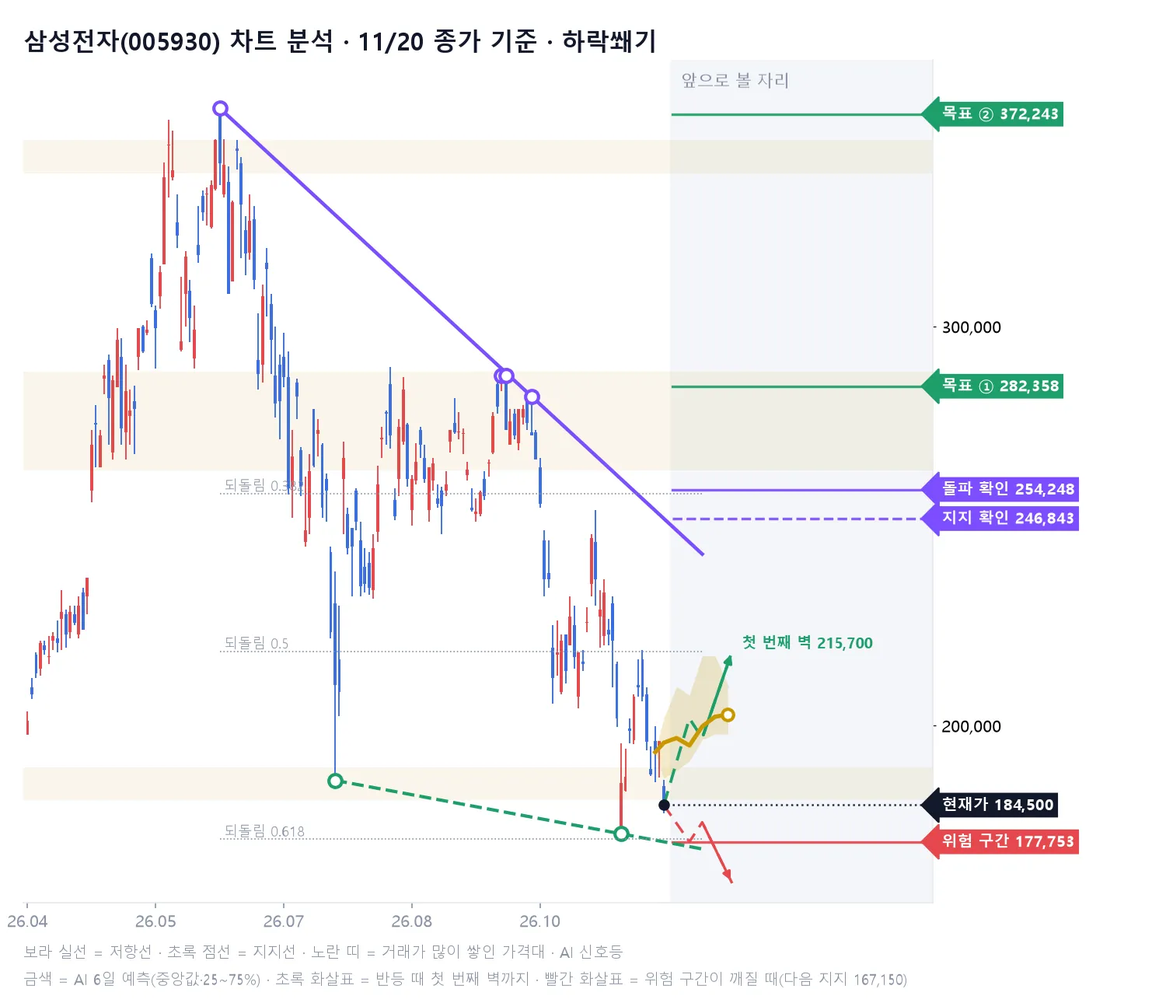
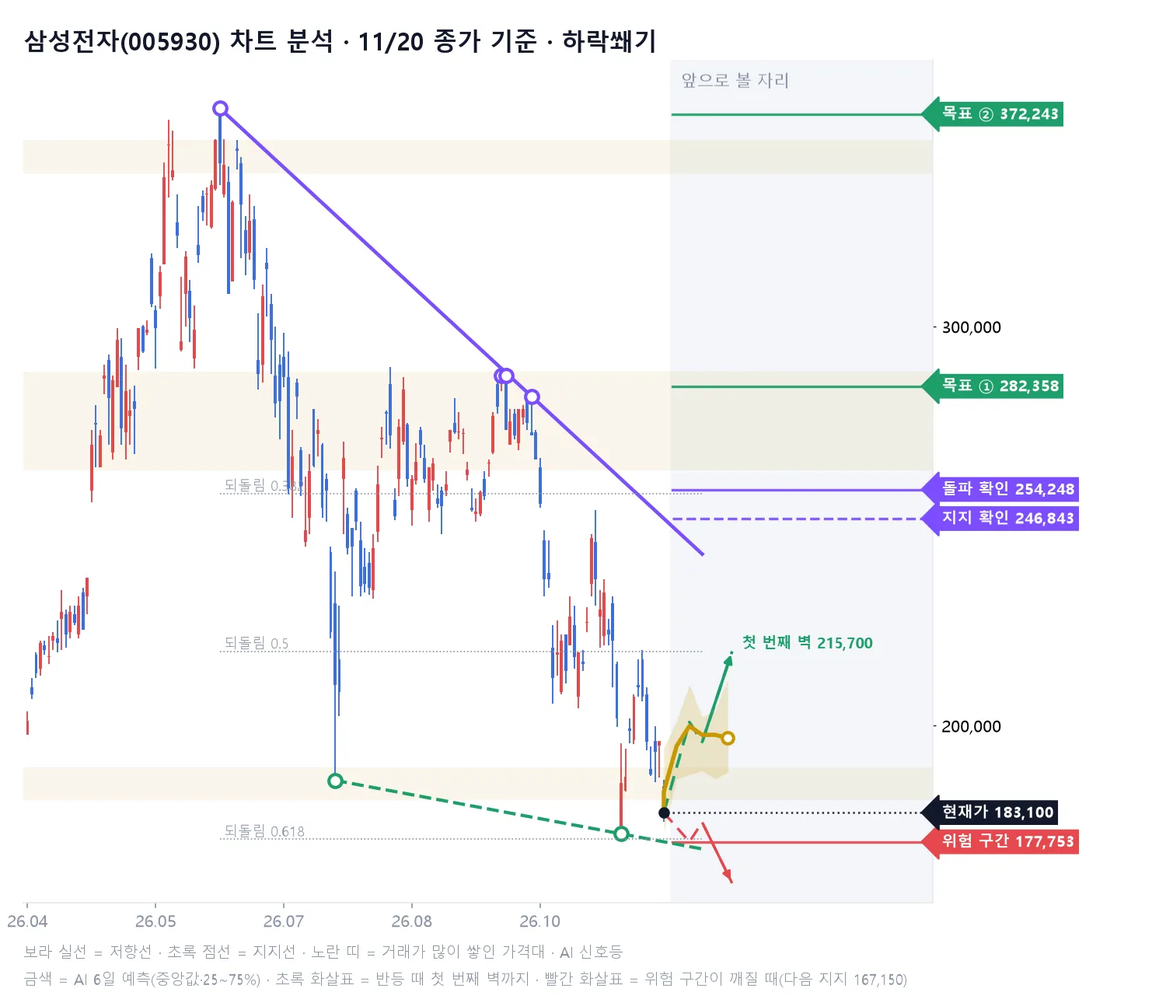
무료 공개 종목 페이지 자동 갱신

Changed region(s): [[0.552, 0.6512, 0.644, 0.8372], [0.7973, 0.7752, 0.92, 0.8372]]

diff --git a/s/index.html b/s/index.html
@@ -81,8 +81,8 @@
     <h1>오늘의 무료 공개 종목</h1>
     <p style="margin:0;color:#B7BFD0">유튜브 쇼츠에 나온 종목의 AI 판정과 6일 예측 흐름을 누구나 볼 수 있어요</p>
   </section>
-  <div class="pk-list"><a class="card pk-item" href="BTC/"><span><b>비트코인(BTC)</b><small>코인 · 업비트 · 11/20 예측</small></span><b class="v-mx">혼돈</b></a><a class="card pk-item" href="ETH/"><span><b>이더리움(ETH)</b><small>코인 · 업비트 · 11/19 예측</small></span><b class="v-mx">혼돈</b></a><a class="card pk-item" href="ETC/"><span><b>이더리움클래식(ETC)</b><small>코인 · 업비트 · 11/20 예측</small></span><b class="v-mx">혼돈</b></a><a class="card pk-item" href="APT/"><span><b>앱토스(APT)</b><small>코인 · 업비트 · 11/20 예측</small></span><b class="v-up">상승</b></a><a class="card pk-item" href="SUI/"><span><b>수이(SUI)</b><small>코인 · 업비트 · 11/20 예측</small></span><b class="v-mx">혼돈</b></a><a class="card pk-item" href="STRAX/"><span><b>저트라(STRAX)</b><small>코인 · 업비트 · 11/20 예측</small></span><b class="v-up">상승</b></a><a class="card pk-item" href="ENS/"><span><b>이더리움네임서비스(ENS)</b><small>코인 · 업비트 · 11/20 예측</small></span><b class="v-up">상승</b></a><a class="card pk-item" href="NVIDIA/"><span><b>엔비디아(NVDA)</b><small>미국 주식 · 11/19 예측</small></span><b class="v-up">상승</b></a><a class="card pk-item" href="TESLA/"><span><b>테슬라(TSLA)</b><small>미국 주식 · 11/19 예측</small></span><b class="v-mx">혼돈</b></a><a class="card pk-item" href="MERCADOLIBRE/"><span><b>메르카도리브레(MERCADOLIBRE)</b><small>미국 주식 · 11/19 예측</small></span><b class="v-up">상승</b></a><a class="card pk-item" href="STRATEGY/"><span><b>스트래티지(STRATEGY)</b><small>미국 주식 · 11/19 예측</small></span><b class="v-up">상승</b></a><a class="card pk-item" href="NETFLIX/"><span><b>넷플릭스(NETFLIX)</b><small>미국 주식 · 11/19 예측</small></span><b class="v-up">상승</b></a><a class="card pk-item" href="RUSSELL2000/"><span><b>러셀2000(RUSSELL2000)</b><small>미국 주식 · 11/19 예측</small></span><b class="v-up">상승</b></a><a class="card pk-item" href="SK%ED%95%98%EC%9D%B4%EB%8B%89%EC%8A%A4/"><span><b>SK하이닉스(000660)</b><small>코스피200 · 11/20 예측</small></span><b class="v-mx">혼돈</b></a><a class="card pk-item" href="%EC%82%BC%EC%84%B1%EC%A0%84%EC%9E%90/"><span><b>삼성전자(005930)</b><small>코스피200 · 11/19 예측</small></span><b class="v-mx">혼돈</b></a><a class="card pk-item" href="%ED%95%9C%ED%99%94%EC%86%94%EB%A3%A8%EC%85%98/"><span><b>한화솔루션</b><small>코스피200 · 11/21 예측</small></span><b class="v-mx">혼돈</b></a><a class="card pk-item" href="KODEX%EB%AF%B8%EA%B5%AD%EB%82%98%EC%8A%A4%EB%8B%A5100TR/"><span><b>KODEX미국나스닥100TR</b><small>코스피200 · 11/21 예측</small></span><b class="v-up">상승</b></a><a class="card pk-item" href="TIGER2%EC%B0%A8%EC%A0%84%EC%A7%80%ED%85%8C%EB%A7%88/"><span><b>TIGER2차전지테마</b><small>코스피200 · 11/21 예측</small></span><b class="v-up">상승</b></a><a class="card pk-item" href="TIGER%EB%AF%B8%EA%B5%AD%ED%85%8C%ED%81%ACTOP10/"><span><b>TIGER미국테크TOP10</b><small>코스피200 · 11/21 예측</small></span><b class="v-up">상승</b></a><a class="card pk-item" href="KODEX2%EC%B0%A8%EC%A0%84%EC%A7%80%EC%82%B0%EC%97%85/"><span><b>KODEX2차전지산업</b><small>코스피200 · 11/21 예측</small></span><b class="v-up">상승</b></a><a class="card pk-item" href="KOSDAQ/"><span><b>코스닥(KOSDAQ)</b><small>코스피 지수 · 11/21 예측</small></span><b class="v-up">상승</b></a><a class="card pk-item" href="KOSPI/"><span><b>코스피(KOSPI)</b><small>코스피 지수 · 11/21 예측</small></span><b class="v-up">상승</b></a></div>
-  <h2 style="font-size:17px;margin:12px 0 0">지난 공개 종목</h2><div class="pk-list"><a class="card pk-item" href="KODEXWTI%EC%9B%90%EC%9C%A0%EC%84%A0%EB%AC%BCH/"><span><b>KODEXWTI원유선물H</b><small>코스피200 · 11/20 예측</small></span><b class="v-up">상승</b></a><a class="card pk-item" href="%ED%95%9C%EC%A0%84%EA%B8%B0%EC%88%A0/"><span><b>한전기술</b><small>코스피200 · 11/20 예측</small></span><b class="v-up">상승</b></a><a class="card pk-item" href="KODEX%EA%B3%A8%EB%93%9C%EC%84%A0%EB%AC%BCH/"><span><b>KODEX골드선물H</b><small>코스피200 · 11/20 예측</small></span><b class="v-mx">혼돈</b></a><a class="card pk-item" href="SHIB/"><span><b>시바이누(SHIB)</b><small>코인 · 업비트 · 11/19 예측</small></span><b class="v-up">상승</b></a><a class="card pk-item" href="TOKAMAK/"><span><b>토카막네트워크(TOKAMAK)</b><small>코인 · 업비트 · 11/19 예측</small></span><b class="v-up">상승</b></a><a class="card pk-item" href="TIGER%EB%AF%B8%EA%B5%ADSP500/"><span><b>TIGER미국SP500</b><small>코스피200 · 11/19 예측</small></span><b class="v-mx">혼돈</b></a><a class="card pk-item" href="%EA%B8%B0%EC%95%84/"><span><b>기아</b><small>코스피200 · 11/19 예측</small></span><b class="v-mx">혼돈</b></a><a class="card pk-item" href="%ED%98%84%EB%8C%80%EB%A1%9C%ED%85%9C/"><span><b>현대로템</b><small>코스피200 · 11/19 예측</small></span><b class="v-up">상승</b></a><a class="card pk-item" href="TIGER%EB%B0%98%EB%8F%84%EC%B2%B4TOP10/"><span><b>TIGER반도체TOP10</b><small>코스피200 · 11/19 예측</small></span><b class="v-up">상승</b></a><a class="card pk-item" href="MBL/"><span><b>무비블록(MBL)</b><small>코인 · 업비트 · 11/18 예측</small></span><b class="v-up">상승</b></a><a class="card pk-item" href="SC/"><span><b>시아코인(SC)</b><small>코인 · 업비트 · 11/18 예측</small></span><b class="v-up">상승</b></a><a class="card pk-item" href="ELF/"><span><b>엘프(ELF)</b><small>코인 · 업비트 · 11/18 예측</small></span><b class="v-up">상승</b></a><a class="card pk-item" href="BITMINE/"><span><b>비트마인(BITMINE)</b><small>미국 주식 · 11/18 예측</small></span><b class="v-up">상승</b></a><a class="card pk-item" href="NASDAQ100/"><span><b>나스닥100(NASDAQ100)</b><small>미국 주식 · 11/18 예측</small></span><b class="v-up">상승</b></a><a class="card pk-item" href="NASDAQ/"><span><b>나스닥(NASDAQ)</b><small>미국 주식 · 11/18 예측</small></span><b class="v-up">상승</b></a><a class="card pk-item" href="DB%ED%95%98%EC%9D%B4%ED%85%8D/"><span><b>DB하이텍</b><small>코스피200 · 11/18 예측</small></span><b class="v-up">상승</b></a><a class="card pk-item" href="%ED%95%9C%ED%99%94%EC%83%9D%EB%AA%85/"><span><b>한화생명</b><small>코스피200 · 11/18 예측</small></span><b class="v-mx">혼돈</b></a><a class="card pk-item" href="SOL/"><span><b>솔라나(SOL)</b><small>코인 · 업비트 · 11/17 예측</small></span><b class="v-up">상승</b></a><a class="card pk-item" href="HBAR/"><span><b>헤데라(HBAR)</b><small>코인 · 업비트 · 11/17 예측</small></span><b class="v-up">상승</b></a><a class="card pk-item" href="NEAR/"><span><b>니어프로토콜(NEAR)</b><small>코인 · 업비트 · 11/17 예측</small></span><b class="v-up">상승</b></a><a class="card pk-item" href="CISCO/"><span><b>시스코(CISCO)</b><small>미국 주식 · 11/17 예측</small></span><b class="v-up">상승</b></a><a class="card pk-item" href="DB%EC%86%90%ED%95%B4%EB%B3%B4%ED%97%98/"><span><b>DB손해보험</b><small>코스피200 · 11/17 예측</small></span><b class="v-up">상승</b></a><a class="card pk-item" href="NIKKEI225/"><span><b>NIKKEI225</b><small>코스피200 · 11/17 예측</small></span><b class="v-up">상승</b></a><a class="card pk-item" href="LG/"><span><b>LG</b><small>코스피200 · 11/17 예측</small></span><b class="v-up">상승</b></a><a class="card pk-item" href="NEO/"><span><b>네오(NEO)</b><small>코인 · 업비트 · 11/16 예측</small></span><b class="v-up">상승</b></a><a class="card pk-item" href="MED/"><span><b>메디블록(MED)</b><small>코인 · 업비트 · 11/16 예측</small></span><b class="v-up">상승</b></a><a class="card pk-item" href="VET/"><span><b>비체인(VET)</b><small>코인 · 업비트 · 11/16 예측</small></span><b class="v-up">상승</b></a><a class="card pk-item" href="TFUEL/"><span><b>쎄타퓨엘(TFUEL)</b><small>코인 · 업비트 · 11/16 예측</small></span><b class="v-up">상승</b></a><a class="card pk-item" href="SP500/"><span><b>S&amp;P500(SPX)</b><small>미국 주식 · 11/14 예측</small></span><b class="v-dn">하락</b></a><a class="card pk-item" href="BITCOIN_ETF_FIDELITY/"><span><b>비트코인 현물 피델리티(BITCOIN_ETF_FIDELITY)</b><small>미국 주식 · 11/14 예측</small></span><b class="v-up">상승</b></a><a class="card pk-item" href="BITCOIN_ETF_ISHARES/"><span><b>비트코인 현물 아이셰어즈(BITCOIN_ETF_ISHARES)</b><small>미국 주식 · 11/14 예측</small></span><b class="v-up">상승</b></a></div>
+  <div class="pk-list"><a class="card pk-item" href="BTC/"><span><b>비트코인(BTC)</b><small>코인 · 업비트 · 11/20 예측</small></span><b class="v-mx">혼돈</b></a><a class="card pk-item" href="ETC/"><span><b>이더리움클래식(ETC)</b><small>코인 · 업비트 · 11/20 예측</small></span><b class="v-mx">혼돈</b></a><a class="card pk-item" href="APT/"><span><b>앱토스(APT)</b><small>코인 · 업비트 · 11/20 예측</small></span><b class="v-up">상승</b></a><a class="card pk-item" href="SUI/"><span><b>수이(SUI)</b><small>코인 · 업비트 · 11/20 예측</small></span><b class="v-mx">혼돈</b></a><a class="card pk-item" href="STRAX/"><span><b>저트라(STRAX)</b><small>코인 · 업비트 · 11/20 예측</small></span><b class="v-up">상승</b></a><a class="card pk-item" href="ENS/"><span><b>이더리움네임서비스(ENS)</b><small>코인 · 업비트 · 11/20 예측</small></span><b class="v-up">상승</b></a><a class="card pk-item" href="MERCADOLIBRE/"><span><b>메르카도리브레(MERCADOLIBRE)</b><small>미국 주식 · 11/19 예측</small></span><b class="v-up">상승</b></a><a class="card pk-item" href="STRATEGY/"><span><b>스트래티지(STRATEGY)</b><small>미국 주식 · 11/19 예측</small></span><b class="v-up">상승</b></a><a class="card pk-item" href="NETFLIX/"><span><b>넷플릭스(NETFLIX)</b><small>미국 주식 · 11/19 예측</small></span><b class="v-up">상승</b></a><a class="card pk-item" href="RUSSELL2000/"><span><b>러셀2000(RUSSELL2000)</b><small>미국 주식 · 11/19 예측</small></span><b class="v-up">상승</b></a><a class="card pk-item" href="SK%ED%95%98%EC%9D%B4%EB%8B%89%EC%8A%A4/"><span><b>SK하이닉스(000660)</b><small>코스피200 · 11/20 예측</small></span><b class="v-mx">혼돈</b></a><a class="card pk-item" href="%EC%82%BC%EC%84%B1%EC%A0%84%EC%9E%90/"><span><b>삼성전자(005930)</b><small>코스피200 · 11/21 예측</small></span><b class="v-mx">혼돈</b></a><a class="card pk-item" href="%ED%95%9C%ED%99%94%EC%86%94%EB%A3%A8%EC%85%98/"><span><b>한화솔루션</b><small>코스피200 · 11/21 예측</small></span><b class="v-mx">혼돈</b></a><a class="card pk-item" href="KODEX%EB%AF%B8%EA%B5%AD%EB%82%98%EC%8A%A4%EB%8B%A5100TR/"><span><b>KODEX미국나스닥100TR</b><small>코스피200 · 11/21 예측</small></span><b class="v-up">상승</b></a><a class="card pk-item" href="TIGER2%EC%B0%A8%EC%A0%84%EC%A7%80%ED%85%8C%EB%A7%88/"><span><b>TIGER2차전지테마</b><small>코스피200 · 11/21 예측</small></span><b class="v-up">상승</b></a><a class="card pk-item" href="TIGER%EB%AF%B8%EA%B5%AD%ED%85%8C%ED%81%ACTOP10/"><span><b>TIGER미국테크TOP10</b><small>코스피200 · 11/21 예측</small></span><b class="v-up">상승</b></a><a class="card pk-item" href="KODEX2%EC%B0%A8%EC%A0%84%EC%A7%80%EC%82%B0%EC%97%85/"><span><b>KODEX2차전지산업</b><small>코스피200 · 11/21 예측</small></span><b class="v-up">상승</b></a><a class="card pk-item" href="KOSDAQ/"><span><b>코스닥(KOSDAQ)</b><small>코스피 지수 · 11/21 예측</small></span><b class="v-up">상승</b></a><a class="card pk-item" href="KOSPI/"><span><b>코스피(KOSPI)</b><small>코스피 지수 · 11/21 예측</small></span><b class="v-up">상승</b></a></div>
+  <h2 style="font-size:17px;margin:12px 0 0">지난 공개 종목</h2><div class="pk-list"><a class="card pk-item" href="KODEXWTI%EC%9B%90%EC%9C%A0%EC%84%A0%EB%AC%BCH/"><span><b>KODEXWTI원유선물H</b><small>코스피200 · 11/20 예측</small></span><b class="v-up">상승</b></a><a class="card pk-item" href="%ED%95%9C%EC%A0%84%EA%B8%B0%EC%88%A0/"><span><b>한전기술</b><small>코스피200 · 11/20 예측</small></span><b class="v-up">상승</b></a><a class="card pk-item" href="KODEX%EA%B3%A8%EB%93%9C%EC%84%A0%EB%AC%BCH/"><span><b>KODEX골드선물H</b><small>코스피200 · 11/20 예측</small></span><b class="v-mx">혼돈</b></a><a class="card pk-item" href="NVIDIA/"><span><b>엔비디아(NVDA)</b><small>미국 주식 · 11/19 예측</small></span><b class="v-up">상승</b></a><a class="card pk-item" href="ETH/"><span><b>이더리움(ETH)</b><small>코인 · 업비트 · 11/19 예측</small></span><b class="v-mx">혼돈</b></a><a class="card pk-item" href="TESLA/"><span><b>테슬라(TSLA)</b><small>미국 주식 · 11/19 예측</small></span><b class="v-mx">혼돈</b></a><a class="card pk-item" href="SHIB/"><span><b>시바이누(SHIB)</b><small>코인 · 업비트 · 11/19 예측</small></span><b class="v-up">상승</b></a><a class="card pk-item" href="TOKAMAK/"><span><b>토카막네트워크(TOKAMAK)</b><small>코인 · 업비트 · 11/19 예측</small></span><b class="v-up">상승</b></a><a class="card pk-item" href="TIGER%EB%AF%B8%EA%B5%ADSP500/"><span><b>TIGER미국SP500</b><small>코스피200 · 11/19 예측</small></span><b class="v-mx">혼돈</b></a><a class="card pk-item" href="%EA%B8%B0%EC%95%84/"><span><b>기아</b><small>코스피200 · 11/19 예측</small></span><b class="v-mx">혼돈</b></a><a class="card pk-item" href="%ED%98%84%EB%8C%80%EB%A1%9C%ED%85%9C/"><span><b>현대로템</b><small>코스피200 · 11/19 예측</small></span><b class="v-up">상승</b></a><a class="card pk-item" href="TIGER%EB%B0%98%EB%8F%84%EC%B2%B4TOP10/"><span><b>TIGER반도체TOP10</b><small>코스피200 · 11/19 예측</small></span><b class="v-up">상승</b></a><a class="card pk-item" href="MBL/"><span><b>무비블록(MBL)</b><small>코인 · 업비트 · 11/18 예측</small></span><b class="v-up">상승</b></a><a class="card pk-item" href="SC/"><span><b>시아코인(SC)</b><small>코인 · 업비트 · 11/18 예측</small></span><b class="v-up">상승</b></a><a class="card pk-item" href="ELF/"><span><b>엘프(ELF)</b><small>코인 · 업비트 · 11/18 예측</small></span><b class="v-up">상승</b></a><a class="card pk-item" href="BITMINE/"><span><b>비트마인(BITMINE)</b><small>미국 주식 · 11/18 예측</small></span><b class="v-up">상승</b></a><a class="card pk-item" href="NASDAQ100/"><span><b>나스닥100(NASDAQ100)</b><small>미국 주식 · 11/18 예측</small></span><b class="v-up">상승</b></a><a class="card pk-item" href="NASDAQ/"><span><b>나스닥(NASDAQ)</b><small>미국 주식 · 11/18 예측</small></span><b class="v-up">상승</b></a><a class="card pk-item" href="DB%ED%95%98%EC%9D%B4%ED%85%8D/"><span><b>DB하이텍</b><small>코스피200 · 11/18 예측</small></span><b class="v-up">상승</b></a><a class="card pk-item" href="%ED%95%9C%ED%99%94%EC%83%9D%EB%AA%85/"><span><b>한화생명</b><small>코스피200 · 11/18 예측</small></span><b class="v-mx">혼돈</b></a><a class="card pk-item" href="SOL/"><span><b>솔라나(SOL)</b><small>코인 · 업비트 · 11/17 예측</small></span><b class="v-up">상승</b></a><a class="card pk-item" href="HBAR/"><span><b>헤데라(HBAR)</b><small>코인 · 업비트 · 11/17 예측</small></span><b class="v-up">상승</b></a><a class="card pk-item" href="NEAR/"><span><b>니어프로토콜(NEAR)</b><small>코인 · 업비트 · 11/17 예측</small></span><b class="v-up">상승</b></a><a class="card pk-item" href="CISCO/"><span><b>시스코(CISCO)</b><small>미국 주식 · 11/17 예측</small></span><b class="v-up">상승</b></a><a class="card pk-item" href="DB%EC%86%90%ED%95%B4%EB%B3%B4%ED%97%98/"><span><b>DB손해보험</b><small>코스피200 · 11/17 예측</small></span><b class="v-up">상승</b></a><a class="card pk-item" href="NIKKEI225/"><span><b>NIKKEI225</b><small>코스피200 · 11/17 예측</small></span><b class="v-up">상승</b></a><a class="card pk-item" href="LG/"><span><b>LG</b><small>코스피200 · 11/17 예측</small></span><b class="v-up">상승</b></a><a class="card pk-item" href="NEO/"><span><b>네오(NEO)</b><small>코인 · 업비트 · 11/16 예측</small></span><b class="v-up">상승</b></a><a class="card pk-item" href="MED/"><span><b>메디블록(MED)</b><small>코인 · 업비트 · 11/16 예측</small></span><b class="v-up">상승</b></a><a class="card pk-item" href="VET/"><span><b>비체인(VET)</b><small>코인 · 업비트 · 11/16 예측</small></span><b class="v-up">상승</b></a><a class="card pk-item" href="TFUEL/"><span><b>쎄타퓨엘(TFUEL)</b><small>코인 · 업비트 · 11/16 예측</small></span><b class="v-up">상승</b></a><a class="card pk-item" href="SP500/"><span><b>S&amp;P500(SPX)</b><small>미국 주식 · 11/14 예측</small></span><b class="v-dn">하락</b></a><a class="card pk-item" href="BITCOIN_ETF_FIDELITY/"><span><b>비트코인 현물 피델리티(BITCOIN_ETF_FIDELITY)</b><small>미국 주식 · 11/14 예측</small></span><b class="v-up">상승</b></a><a class="card pk-item" href="BITCOIN_ETF_ISHARES/"><span><b>비트코인 현물 아이셰어즈(BITCOIN_ETF_ISHARES)</b><small>미국 주식 · 11/14 예측</small></span><b class="v-up">상승</b></a></div>
   <section class="card pk-cta">
     <b style="font-size:17px">전체 종목 순위와 모델별 차트는 회원 화면에서</b>
     <a class="btn big red" href="../login.html?next=index.html#signup" data-member="../index.html" data-member-text="내 포털로 가기">7일 무료로 시작하기</a>

diff --git a/s/삼성전자/index.html b/s/삼성전자/index.html
@@ -3,13 +3,13 @@
 <head>
 <meta charset="utf-8">
 <meta name="viewport" content="width=device-width, initial-scale=1">
-<title>삼성전자(005930) 전망 11/19 · AI 52개 모델 6일 예측 | AI 신호등</title>
-<meta name="description" content="11/19 기준 삼성전자(005930) 다음 거래일 AI 판정은 &#x27;혼돈&#x27;. 52개 모델 중 상승 27 · 하락 16. 6일 뒤 예측 중앙값 +3.9%. 52개 예측 모델의 6일 가격 흐름을 신호등으로 정리했어요.">
+<title>삼성전자(005930) 전망 11/21 · AI 52개 모델 6일 예측 | AI 신호등</title>
+<meta name="description" content="11/21 기준 삼성전자(005930) 다음 거래일 AI 판정은 &#x27;혼돈&#x27;. 52개 모델 중 상승 31 · 하락 19. 6일 뒤 예측 중앙값 +7.9%. 52개 예측 모델의 6일 가격 흐름을 신호등으로 정리했어요.">
 <link rel="canonical" href="https://www.ai-sinhodeung.co.kr/s/%EC%82%BC%EC%84%B1%EC%A0%84%EC%9E%90/">
 <meta property="og:type" content="article">
 <meta property="og:site_name" content="AI 신호등">
-<meta property="og:title" content="삼성전자(005930) 전망 11/19 · AI 52개 모델 6일 예측 | AI 신호등">
-<meta property="og:description" content="11/19 기준 삼성전자(005930) 다음 거래일 AI 판정은 &#x27;혼돈&#x27;. 52개 모델 중 상승 27 · 하락 16. 6일 뒤 예측 중앙값 +3.9%. 52개 예측 모델의 6일 가격 흐름을 신호등으로 정리했어요.">
+<meta property="og:title" content="삼성전자(005930) 전망 11/21 · AI 52개 모델 6일 예측 | AI 신호등">
+<meta property="og:description" content="11/21 기준 삼성전자(005930) 다음 거래일 AI 판정은 &#x27;혼돈&#x27;. 52개 모델 중 상승 31 · 하락 19. 6일 뒤 예측 중앙값 +7.9%. 52개 예측 모델의 6일 가격 흐름을 신호등으로 정리했어요.">
 <meta property="og:url" content="https://www.ai-sinhodeung.co.kr/s/%EC%82%BC%EC%84%B1%EC%A0%84%EC%9E%90/">
 <meta property="og:image" content="https://www.ai-sinhodeung.co.kr/assets/og-image.png">
 <meta property="og:locale" content="ko_KR">
@@ -64,7 +64,7 @@
 .ca ul.ca-ck { list-style: none; padding: 0; display: grid; grid-template-columns: repeat(auto-fill, minmax(200px, 1fr)); gap: 2px 10px; font-size: 13.5px; }
 .ca ul.ca-warn { list-style: none; padding: 0; color: #B4232A; font-size: 13.5px; }
 </style>
-<script type="application/ld+json">{"@context": "https://schema.org", "@type": "Article", "headline": "삼성전자(005930) 전망 11/19 · AI 52개 모델 6일 예측 | AI 신호등", "description": "11/19 기준 삼성전자(005930) 다음 거래일 AI 판정은 '혼돈'. 52개 모델 중 상승 27 · 하락 16. 6일 뒤 예측 중앙값 +3.9%. 52개 예측 모델의 6일 가격 흐름을 신호등으로 정리했어요.", "dateModified": "2026-11-19", "inLanguage": "ko", "url": "https://www.ai-sinhodeung.co.kr/s/%EC%82%BC%EC%84%B1%EC%A0%84%EC%9E%90/", "publisher": {"@type": "Organization", "name": "AI 신호등", "url": "https://www.ai-sinhodeung.co.kr"}}</script>
+<script type="application/ld+json">{"@context": "https://schema.org", "@type": "Article", "headline": "삼성전자(005930) 전망 11/21 · AI 52개 모델 6일 예측 | AI 신호등", "description": "11/21 기준 삼성전자(005930) 다음 거래일 AI 판정은 '혼돈'. 52개 모델 중 상승 31 · 하락 19. 6일 뒤 예측 중앙값 +7.9%. 52개 예측 모델의 6일 가격 흐름을 신호등으로 정리했어요.", "dateModified": "2026-11-21", "inLanguage": "ko", "url": "https://www.ai-sinhodeung.co.kr/s/%EC%82%BC%EC%84%B1%EC%A0%84%EC%9E%90/", "publisher": {"@type": "Organization", "name": "AI 신호등", "url": "https://www.ai-sinhodeung.co.kr"}}</script>
 </head>
 <body class="home landing">
 <header class="topbar">
@@ -77,7 +77,7 @@
 
 <main class="pk">
   <section class="pk-hero on-night">
-    <small>코스피200 · 11/19 예측 · AI 모델 52개</small>
+    <small>코스피200 · 11/21 예측 · AI 모델 52개</small>
     <h1>삼성전자(005930) 전망</h1>
   </section>
 
@@ -85,25 +85,25 @@
     <div class="pk-verdict">
       <div class="lamp mx" aria-hidden="true"><i></i><i></i><i></i></div>
       <div><small style="color:var(--muted);font-size:12.5px">다음 거래일(D+1) AI 판정</small><br>
-        <b class="v-mx">혼돈</b><br><span>52개 모델 중 상승 27 · 하락 16</span></div>
+        <b class="v-mx">혼돈</b><br><span>52개 모델 중 상승 31 · 하락 19</span></div>
     </div>
-    <p style="margin:10px 0 0;color:var(--sub);font-size:14px">참고: 박스권 횡보</p>
+    <p style="margin:10px 0 0;color:var(--sub);font-size:14px">참고: D+3 고점 후 되돌림</p>
   </section>
 
   <section class="card">
     <h3 style="margin-bottom:6px">6일 예측 흐름</h3>
-    <p class="hint" style="margin:0 0 10px;font-size:13px">기준가 194,700원 · 6일 뒤 예측 중앙값 <b class="v-mx">+3.9%</b></p>
+    <p class="hint" style="margin:0 0 10px;font-size:13px">기준가 183,100원 · 6일 뒤 예측 중앙값 <b class="v-mx">+7.9%</b></p>
     <svg viewBox="0 0 520 300" role="img" aria-label="최근 8일 종가와 앞으로 6일 예측 범위" class="pk-chart">
   <line x1="277.1" y1="30" x2="277.1" y2="266" stroke="#C5CAD6" stroke-dasharray="4 4"/>
-  <polygon points="277.1,208.2 315.2,152.8 353.4,100.1 391.5,114.7 429.7,46.3 467.8,46.5 506.0,96.4 506.0,179.0 467.8,179.0 429.7,187.8 391.5,222.4 353.4,236.5 315.2,249.7 277.1,208.2" fill="#C99700" fill-opacity=".14"/>
-  <polyline points="10.0,247.0 48.2,174.3 86.3,117.0 124.5,100.8 162.6,117.0 200.8,191.3 238.9,243.8 277.1,208.2" fill="none" stroke="#12182B" stroke-width="2.4" stroke-linejoin="round"/>
-  <polyline points="277.1,208.2 315.2,193.0 353.4,185.5 391.5,197.5 429.7,166.6 467.8,150.6 506.0,147.0" fill="none" stroke="#C99700" stroke-width="3" stroke-linejoin="round"/>
-  <circle cx="277.1" cy="208.2" r="4.5" fill="#12182B"/>
-  <circle cx="506.0" cy="147.0" r="6" fill="#fff" stroke="#C99700" stroke-width="3"/>
-  <text x="506" y="20" text-anchor="end" font-size="18" font-weight="700" fill="#C99700">6일 뒤 +3.9%</text>
-  <text x="10" y="290" font-size="15" fill="#8A93A6">11-09</text>
-  <text x="277.1" y="290" font-size="15" fill="#12182B" text-anchor="middle" font-weight="600">11-18 기준</text>
-  <text x="506" y="290" font-size="15" fill="#8A93A6" text-anchor="end">11-24</text>
+  <polygon points="277.1,226.4 315.2,142.8 353.4,105.1 391.5,54.7 429.7,99.9 467.8,90.6 506.0,46.3 506.0,174.6 467.8,183.4 429.7,172.4 391.5,177.8 353.4,183.4 315.2,249.7 277.1,226.4" fill="#C99700" fill-opacity=".14"/>
+  <polyline points="10.0,71.6 48.2,58.0 86.3,71.6 124.5,133.8 162.6,177.7 200.8,148.0 238.9,133.1 277.1,226.4" fill="none" stroke="#12182B" stroke-width="2.4" stroke-linejoin="round"/>
+  <polyline points="277.1,226.4 315.2,199.8 353.4,139.8 391.5,112.6 429.7,124.8 467.8,124.5 506.0,129.1" fill="none" stroke="#C99700" stroke-width="3" stroke-linejoin="round"/>
+  <circle cx="277.1" cy="226.4" r="4.5" fill="#12182B"/>
+  <circle cx="506.0" cy="129.1" r="6" fill="#fff" stroke="#C99700" stroke-width="3"/>
+  <text x="506" y="20" text-anchor="end" font-size="18" font-weight="700" fill="#C99700">6일 뒤 +7.9%</text>
+  <text x="10" y="290" font-size="15" fill="#8A93A6">11-11</text>
+  <text x="277.1" y="290" font-size="15" fill="#12182B" text-anchor="middle" font-weight="600">11-20 기준</text>
+  <text x="506" y="290" font-size="15" fill="#8A93A6" text-anchor="end">11-26</text>
 </svg>
     <div class="pk-legend"><span><i style="background:#12182B"></i>실제 종가</span><span><i style="background:#C99700"></i>모델 예측 중앙값</span><span><i style="background:#C99700;height:8px;opacity:.2"></i>모델 25~75% 범위</span></div>
   </section>
@@ -117,7 +117,7 @@
   </section>
 
   <section class="card ca" id="ca">
-    <h3 style="margin:0">삼성전자(005930) 차트 분석 <small style="color:var(--muted);font-weight:400;font-size:13px">11/20 종가 184,500원 기준</small></h3>
+    <h3 style="margin:0">삼성전자(005930) 차트 분석 <small style="color:var(--muted);font-weight:400;font-size:13px">11/20 종가 183,100원 기준</small></h3>
     <a href="chart.webp?v=2026-11-20" target="_blank" rel="noopener"><img src="chart.webp?v=2026-11-20" alt="삼성전자(005930) 차트 분석: 저항선·지지선·앞으로 볼 자리" loading="lazy"></a>
     <small style="color:var(--muted);font-size:12px;margin-top:-8px">그림을 누르면 크게 볼 수 있어요</small>
     <div class="ca-pat">지금 모양: <b>하락쐐기</b><br>고점은 빠르게, 저점은 천천히 낮아지며 좁아지는 모양 — 위로 빠져나오면 반등 신호로 봐요</div>
@@ -131,9 +131,9 @@
       <small style="color:var(--muted);font-size:12px">모양 20/40 · 점검표 18/42 · 시장 12/18 · AI 넣은 점수 = 차트×0.8 + AI 판정(상승 20·혼돈 10·하락 0) · 70↑ 강 · 40~69 중 · 40↓ 약<br>
       조건이 몇 개 맞는지 센 점수예요. 앞으로 오를 확률이 아니에요.</small>
     </div>
-    <div class="ca-combo"><b>🤖 AI 예측과 같이 보면</b><br>다음 거래일 AI 판정 &#x27;혼돈&#x27;. AI 6일 예측 중앙값은 +3.9%(202,274)로, 저항선(246,843)까지는 못 미쳐요 → 당분간은 돌파보다 아래 지지 자리를 지키는지 보는 구간이에요.</div>
+    <div class="ca-combo"><b>🤖 AI 예측과 같이 보면</b><br>다음 거래일 AI 판정 &#x27;혼돈&#x27;. AI 6일 예측 중앙값은 +7.9%(197,491)로, 저항선(246,843)까지는 못 미쳐요 → 당분간은 돌파보다 아래 지지 자리를 지키는지 보는 구간이에요.</div>
     <div><h4 style="margin:0 0 8px">앞으로 볼 자리</h4><div class="ca-lv"><div class="goal"><b>목표 구간 ③</b><span>570,777원</span><small>피보 1.618</small></div><div class="goal"><b>목표 구간 ②</b><span>372,243원</span><small>수평 고점</small></div><div class="goal"><b>목표 구간 ①</b><span>282,358원</span><small>수평 고점</small></div><div class="watch"><b>돌파 확인 자리</b><span>254,248원</span><small>종가가 저항선보다 3% 넘게 위에서 마감 (돌파 뒤 239,438 아래로 다시 마감하면 돌파 실패)</small></div><div class="watch"><b>지지 확인 자리</b><span>246,843원</span><small>돌파 뒤 저항선이 받쳐 주는지</small></div><div class="risk"><b>위험 구간</b><span>177,753원</span><small>지금 가격 아래 지지선. 이 아래로 마감하면 하락 흐름이 이어질 수 있어요 — 깨지면 다음 지지 167,150까지 열려 있어요</small></div></div></div>
-    <div><h4 style="margin:0 0 6px">해석</h4><ul><li>저항선이 하루에 약 0.4%씩 내려오고 있어서, &#x27;돌파 확인 자리&#x27;도 날마다 조금씩 낮아져요. 그림의 초록 점선은 가격이 이 선과 만난 뒤 돌파할 때의 예상 흐름이에요.</li><li>지금 가격은 저항선보다 34% 아래예요. 아직 돌파를 말하기엔 거리가 있어요.</li><li>직전 큰 상승의 0.61만큼만 되돌린 상태 — 0.618 안이라 상승 흐름 속 조정으로 봐요.</li><li>아래에서 받쳐 줄 자리: 177,753 / 167,150</li><li>코스피 지수 상태: 60일선 아래 역배열 → 시장 전체가 약해서 돌파가 나와도 한 번 더 확인이 필요해요</li></ul></div>
+    <div><h4 style="margin:0 0 6px">해석</h4><ul><li>저항선이 하루에 약 0.4%씩 내려오고 있어서, &#x27;돌파 확인 자리&#x27;도 날마다 조금씩 낮아져요. 저항선까지 거리가 있어서, 그림의 초록 점선은 바로 위 첫 번째 벽까지 반등할 때의 흐름이에요.</li><li>지금 가격은 저항선보다 35% 아래예요. 아직 돌파를 말하기엔 거리가 있어요.</li><li>직전 큰 상승의 0.61만큼만 되돌린 상태 — 0.618 안이라 상승 흐름 속 조정으로 봐요.</li><li>아래에서 받쳐 줄 자리: 177,753 / 167,150</li><li>코스피 지수 상태: 60일선 아래 역배열 → 시장 전체가 약해서 돌파가 나와도 한 번 더 확인이 필요해요</li></ul></div>
     <p class="pk-note" style="text-align:left">차트 모양을 규칙대로 자동 분석한 참고 자료예요. 특정 가격에 사고팔라는 권유가 아니며, 가격이 어느 자리에 있는지 보는 용도로만 써 주세요.</p>
   </section>
 
